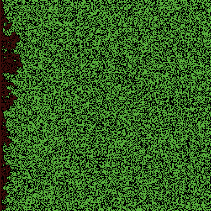
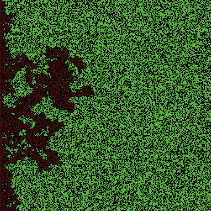
readme ch1
readme ch1

diff --git a/readme.md b/readme.md
@@ -46,7 +46,7 @@ experiment <- nl_experiment(
                          "models/Sample Models/Earth Science/Fire.nlogo"), 
   while_condition = "any? turtles",
   param_values = list(density = c(57, 59, 61)),
-  random_seed = 3,
+  random_seed = 1,
   export_view = TRUE
 )
 ```
